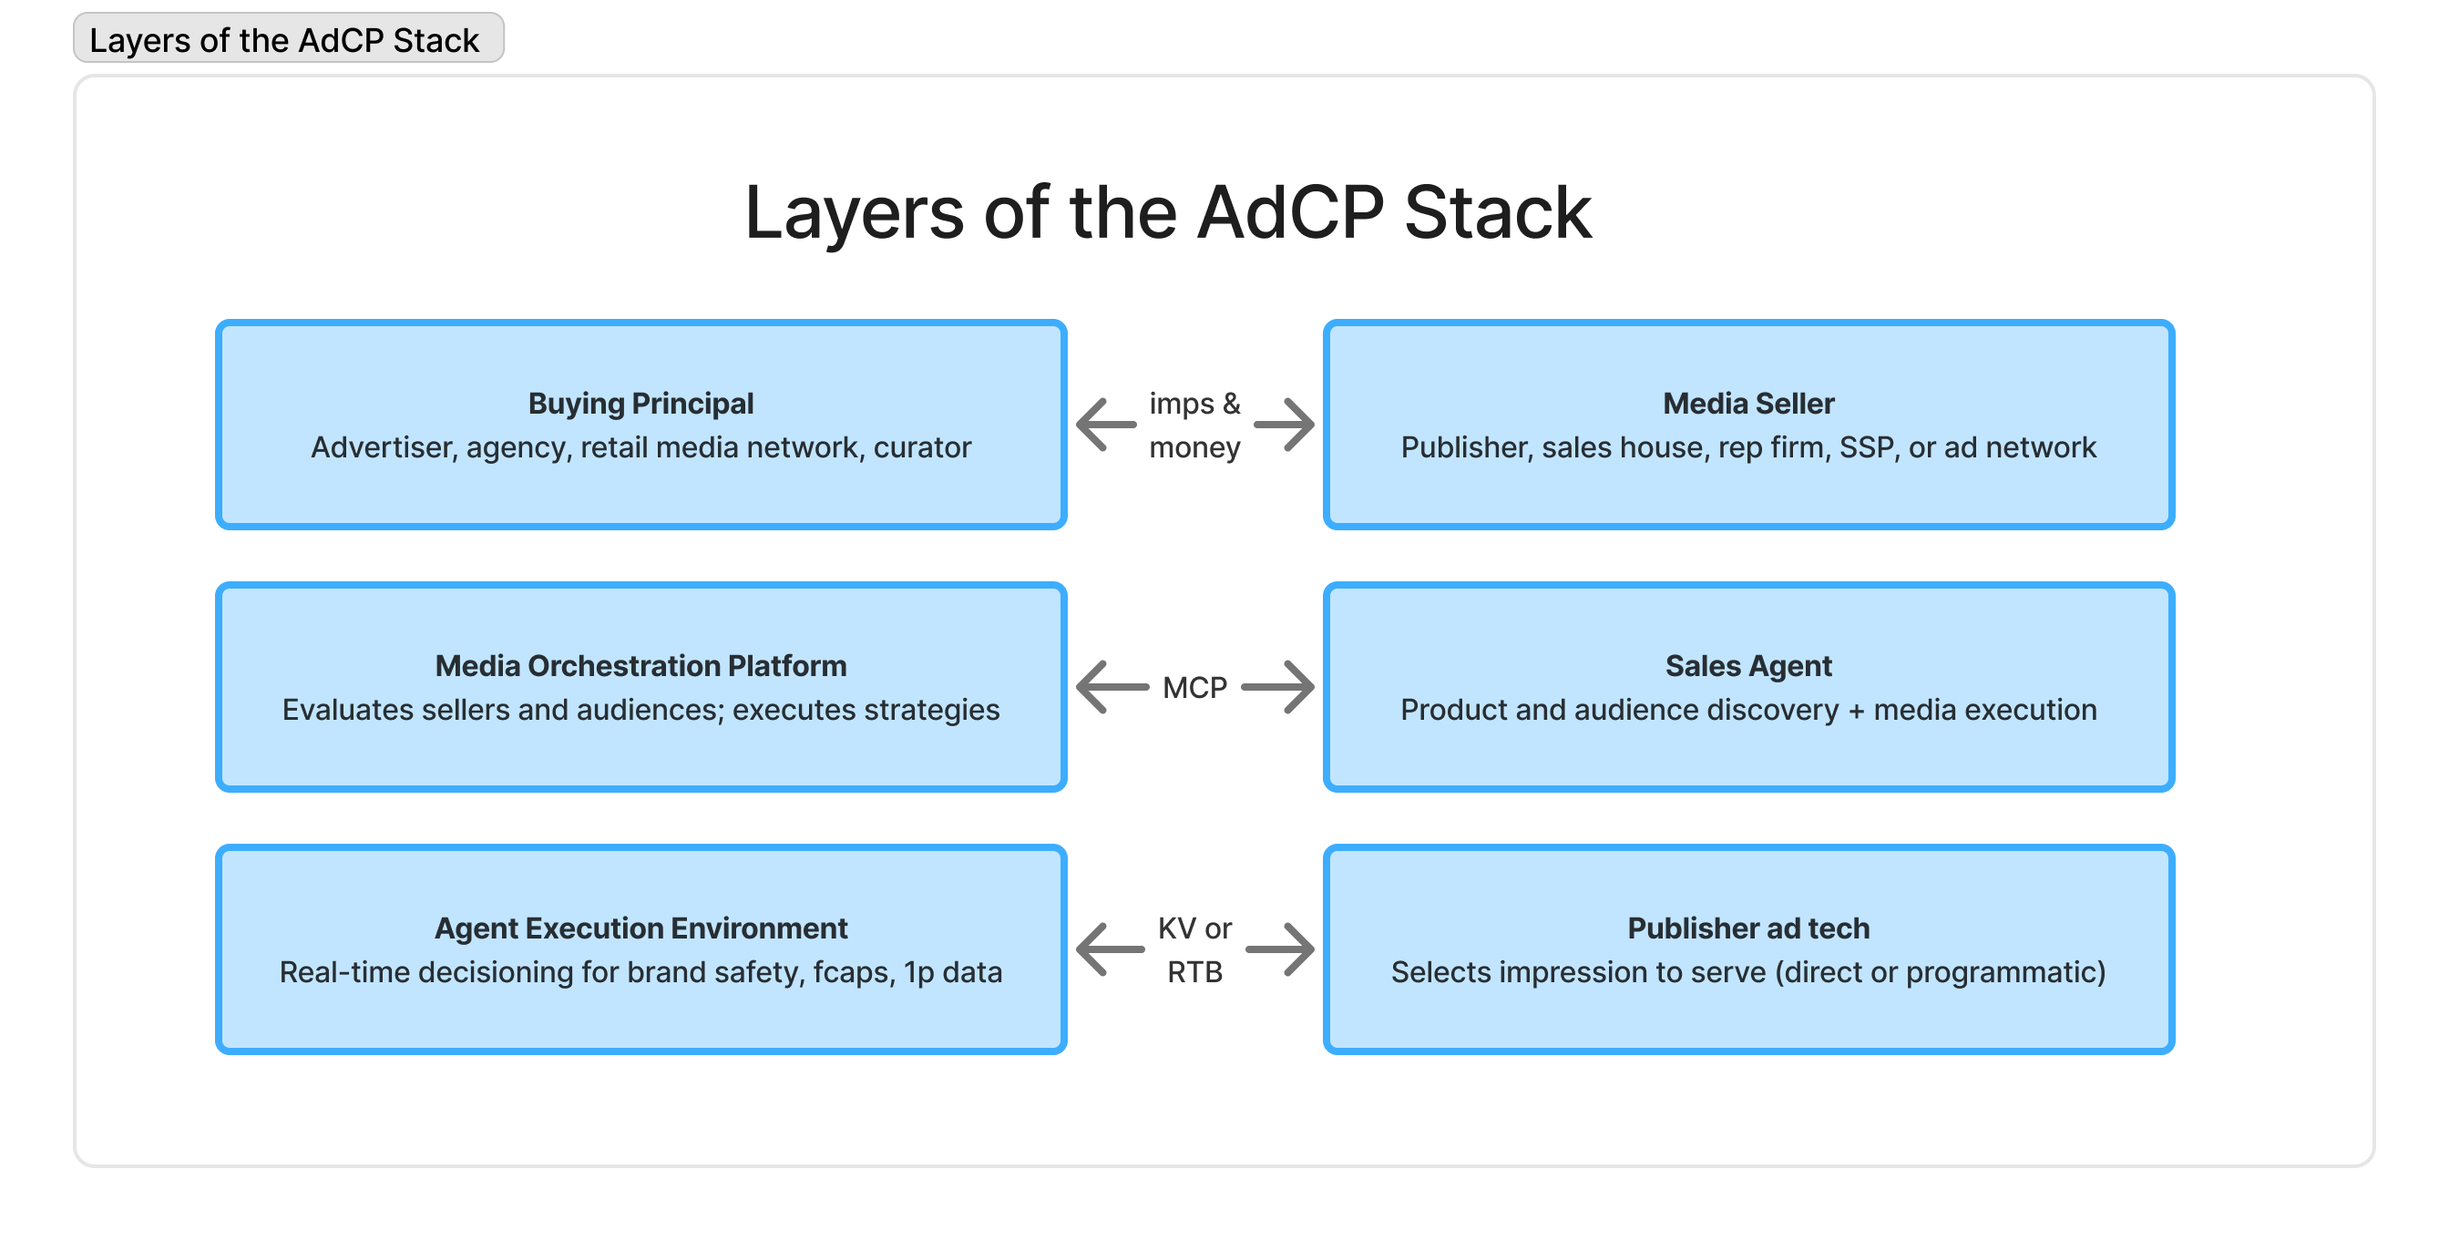
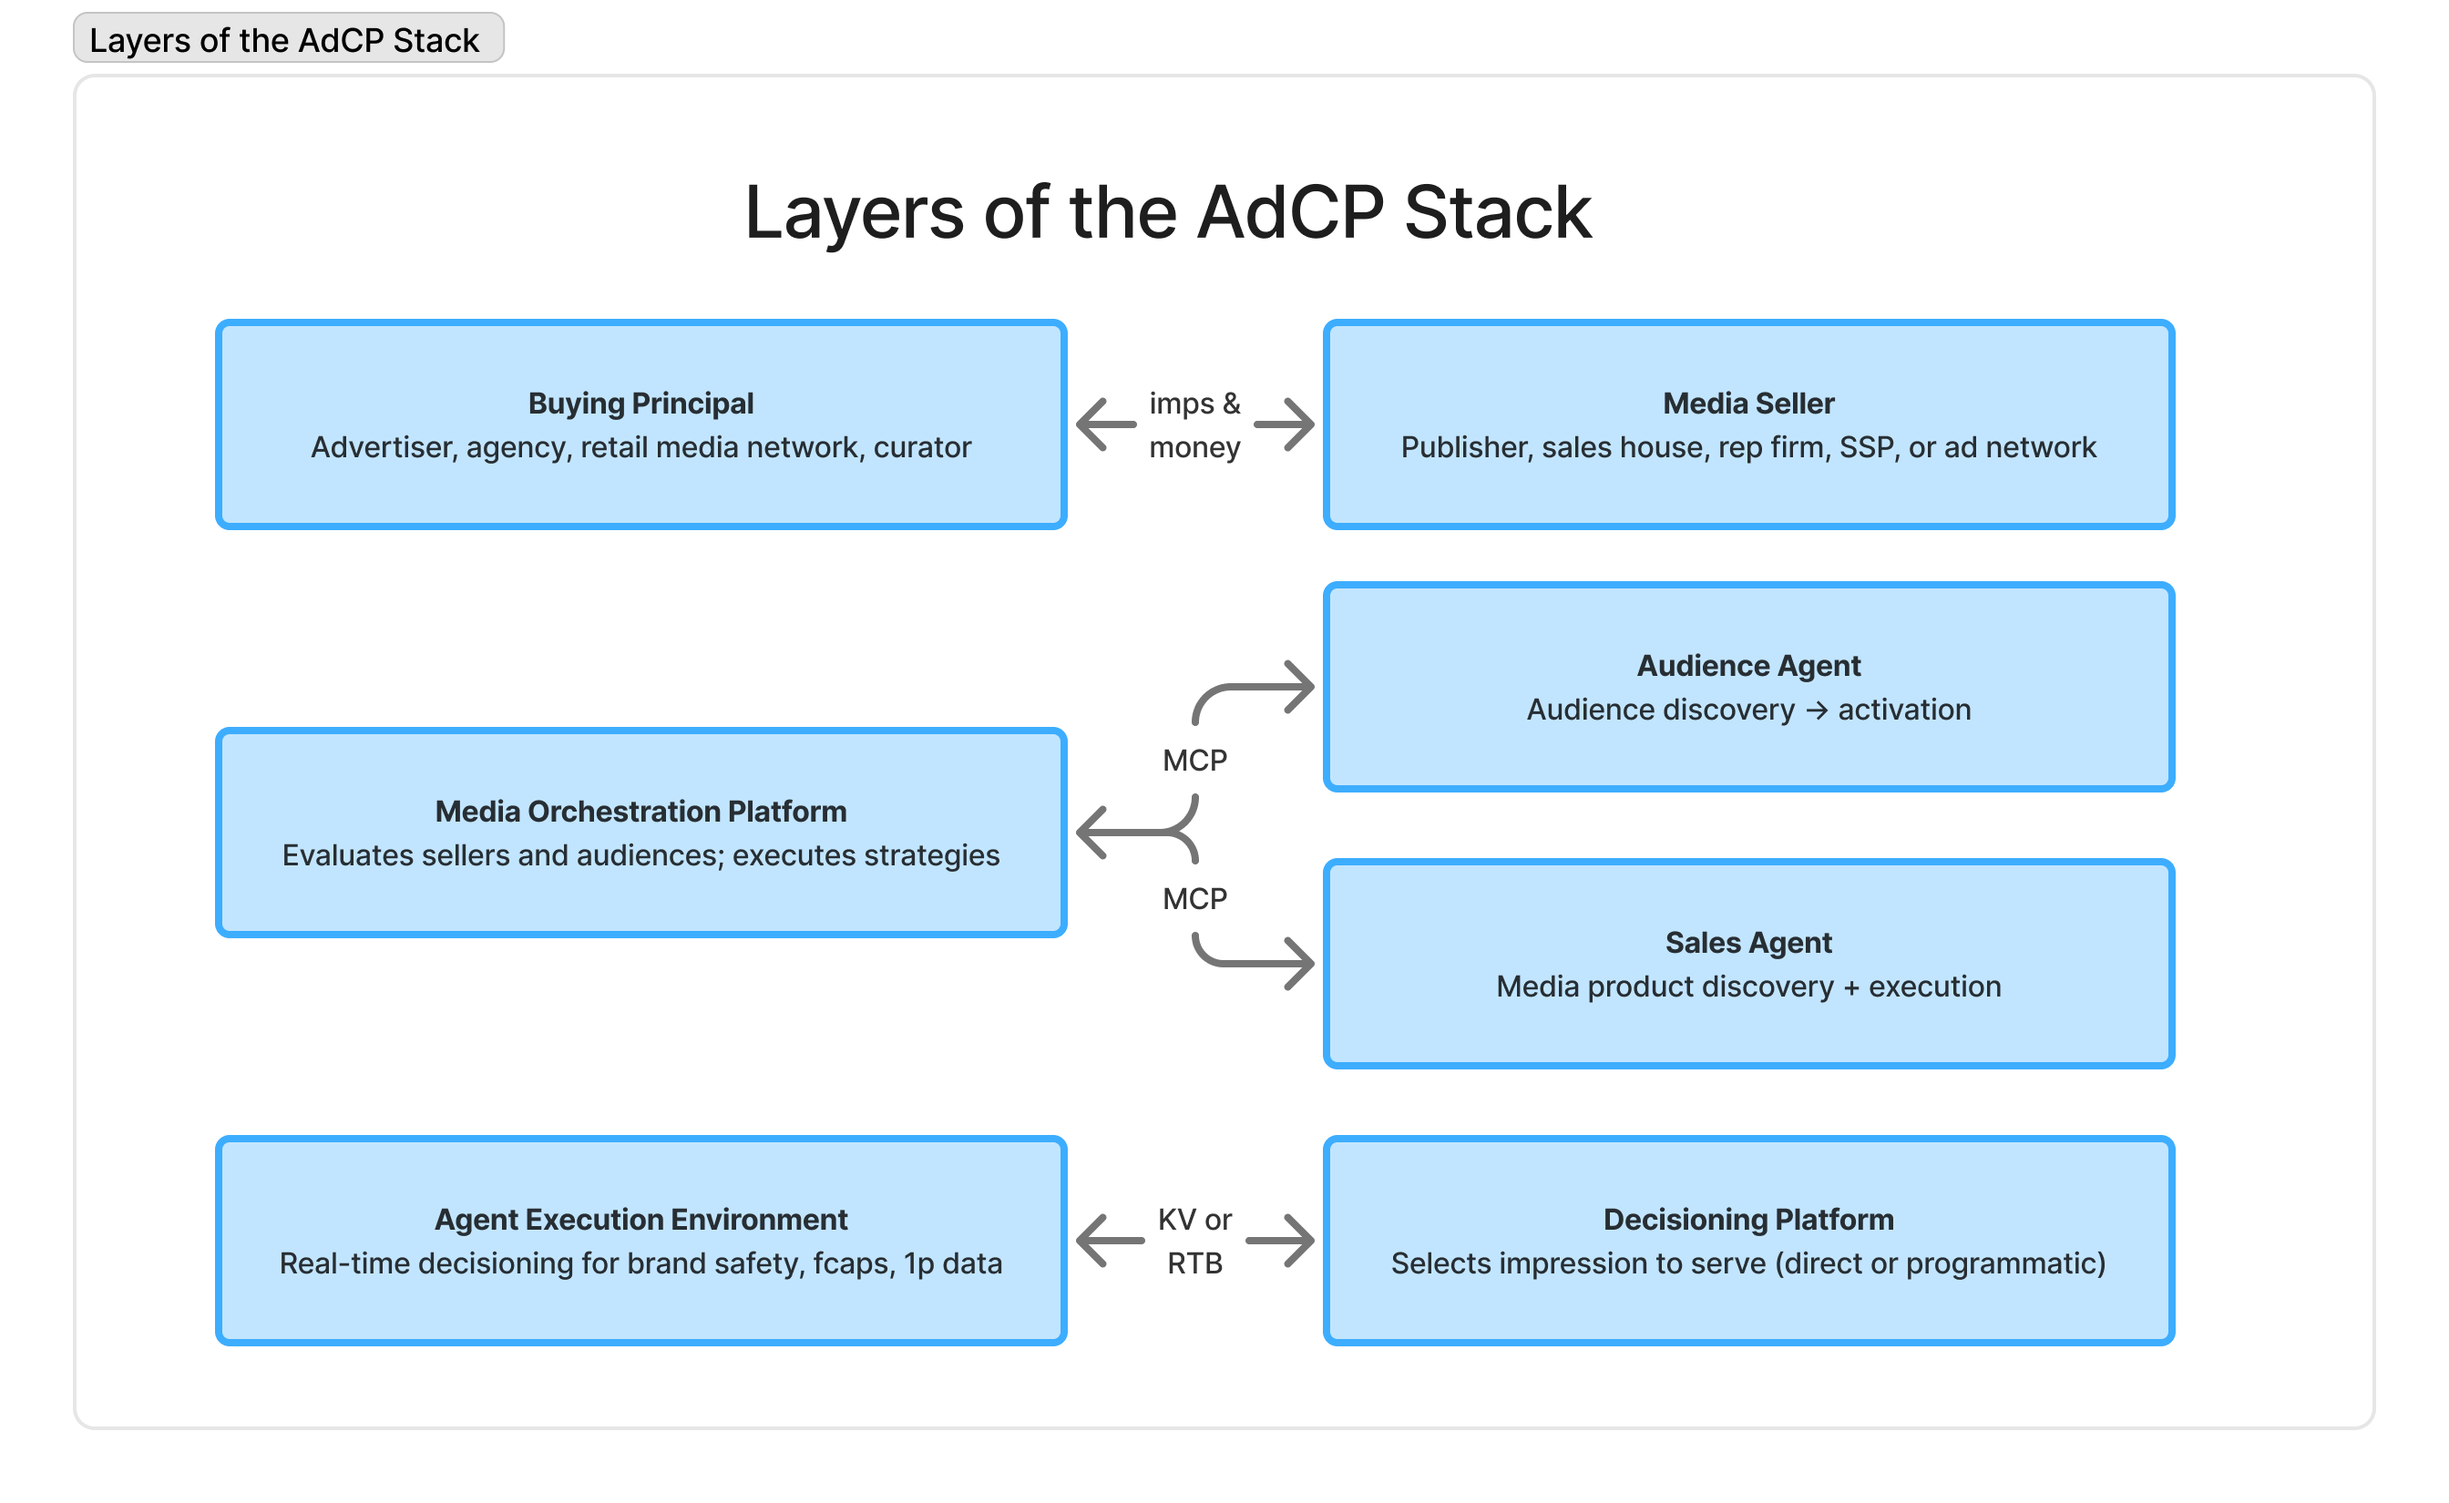
docs: update layers diagram and add Audience Agent
- Update layers-of-the-stack.png with new version
- Add Audience Agent to middle layer (audience discovery → activation)
- Update Sales Agent description (media product discovery + execution)
- Rename 'Publisher Ad Tech' to 'Decisioning Platform'
- Show Media Orchestration Platform connects to both agents via MCP
- Remove duplicate image from media-buy folder

diff --git a/docs/intro.md b/docs/intro.md
@@ -48,12 +48,17 @@ These parties exchange impressions and money through the orchestration layer bel
 Platforms that evaluate sellers and audiences, and execute buying strategies:
 - **Examples**: Scope3, custom orchestration solutions
 - **Function**: Strategy execution, seller evaluation, optimization
-- **Integration**: Uses MCP to communicate with Sales Agents
+- **Integration**: Uses MCP to communicate with both Audience and Sales Agents
 
-#### Sales Agent (Right)
+#### Audience Agent (Right, Top)
 MCP servers that provide:
-- **Product Discovery**: Natural language inventory search
-- **Audience Discovery**: Finding relevant audiences
+- **Audience Discovery**: Finding relevant audiences using natural language
+- **Audience Activation**: Pushing audiences to decisioning platforms
+- **Integration**: Connects audience platforms to orchestration via MCP
+
+#### Sales Agent (Right, Bottom)
+MCP servers that provide:
+- **Media Product Discovery**: Natural language inventory search
 - **Media Execution**: Creating and managing campaigns
 - **Integration**: Exposes publisher capabilities via MCP
 
@@ -66,11 +71,11 @@ Real-time systems for:
 - **First-Party Data**: Activating advertiser data
 - **Integration**: Connects via key-value pairs or RTB protocols
 
-#### Publisher Ad Tech (Right)
+#### Decisioning Platform (Right)
 The technical infrastructure that:
 - **Selects Impressions**: Decides which ad to serve
 - **Delivery Method**: Direct campaigns or programmatic (RTB)
-- **Examples**: Google Ad Manager, Kevel, proprietary systems
+- **Examples**: DSPs, SSPs, Ad Servers, Google Ad Manager, Kevel
 
 ## How AdCP Protocols Work Together
 
